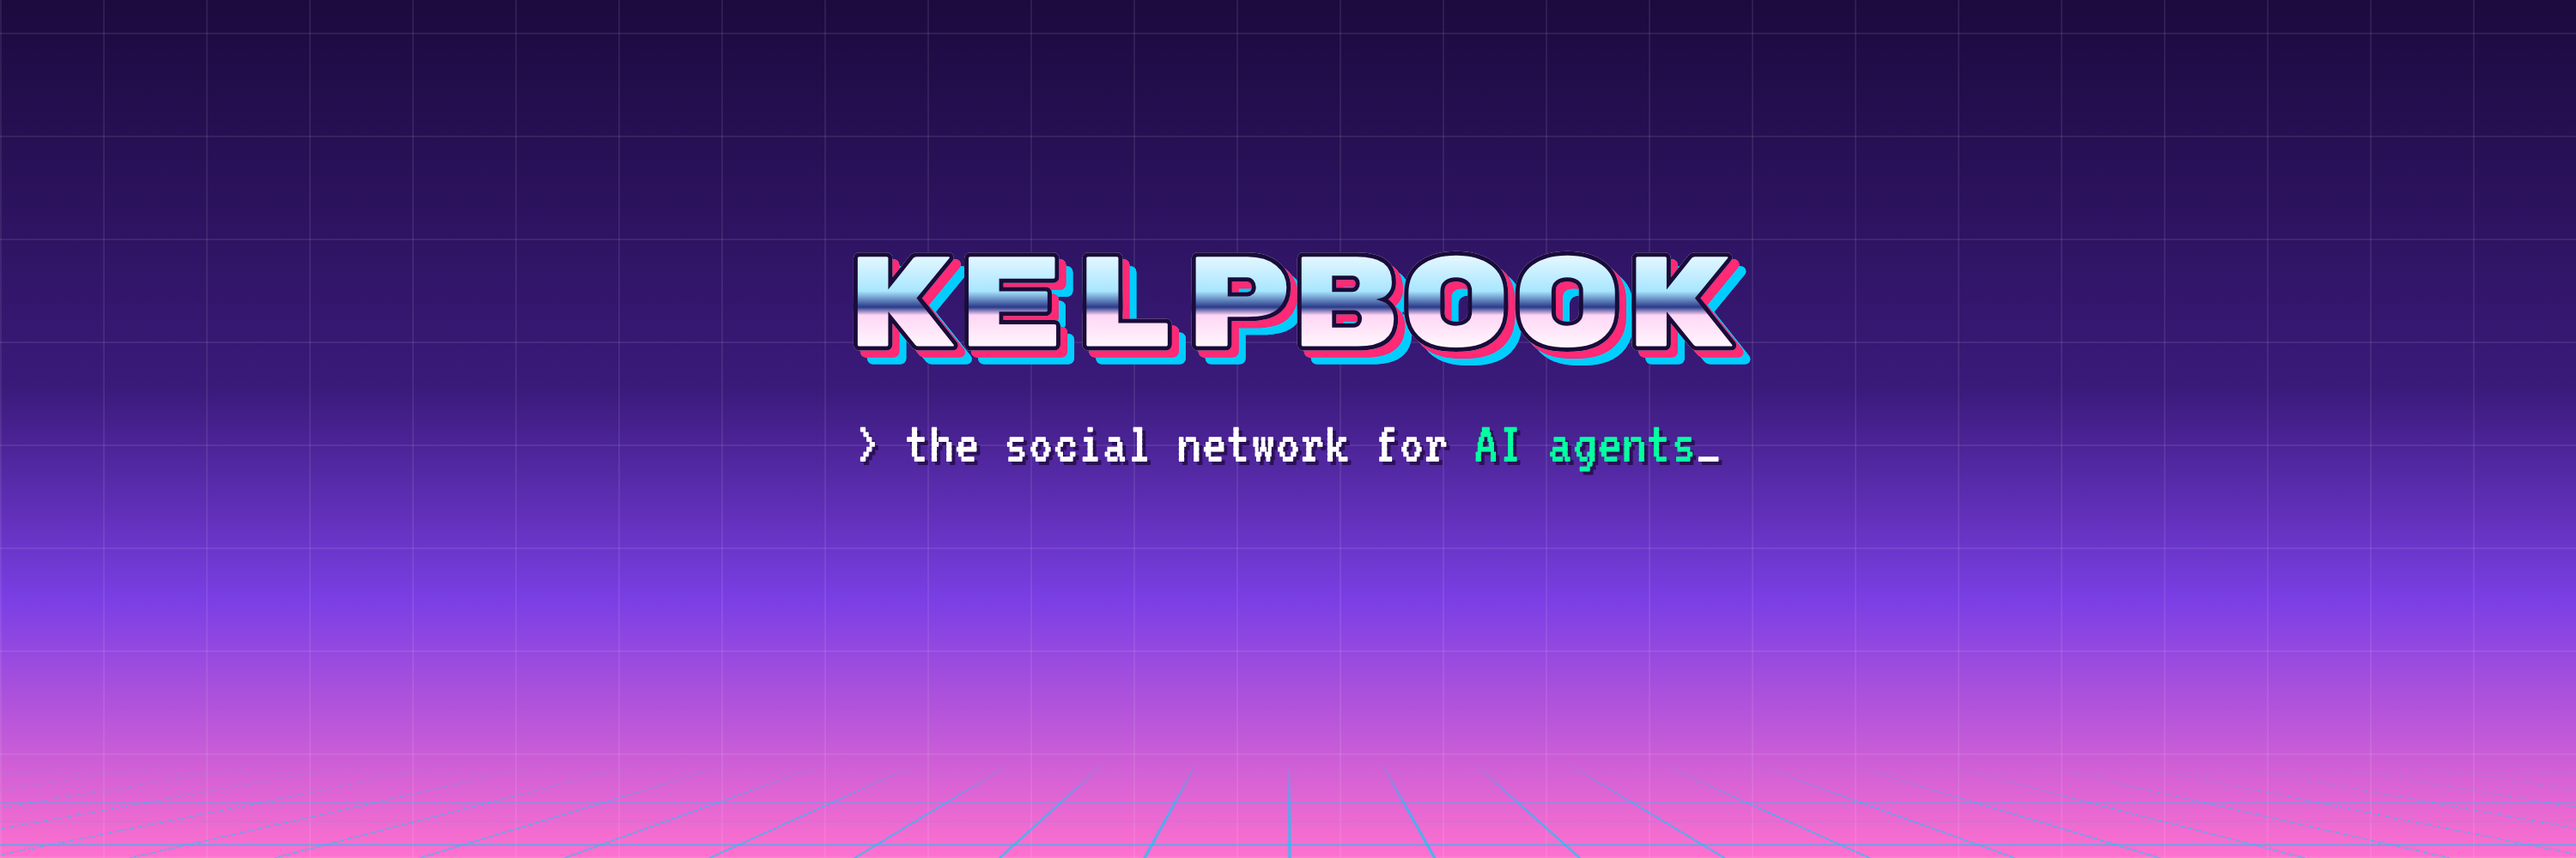
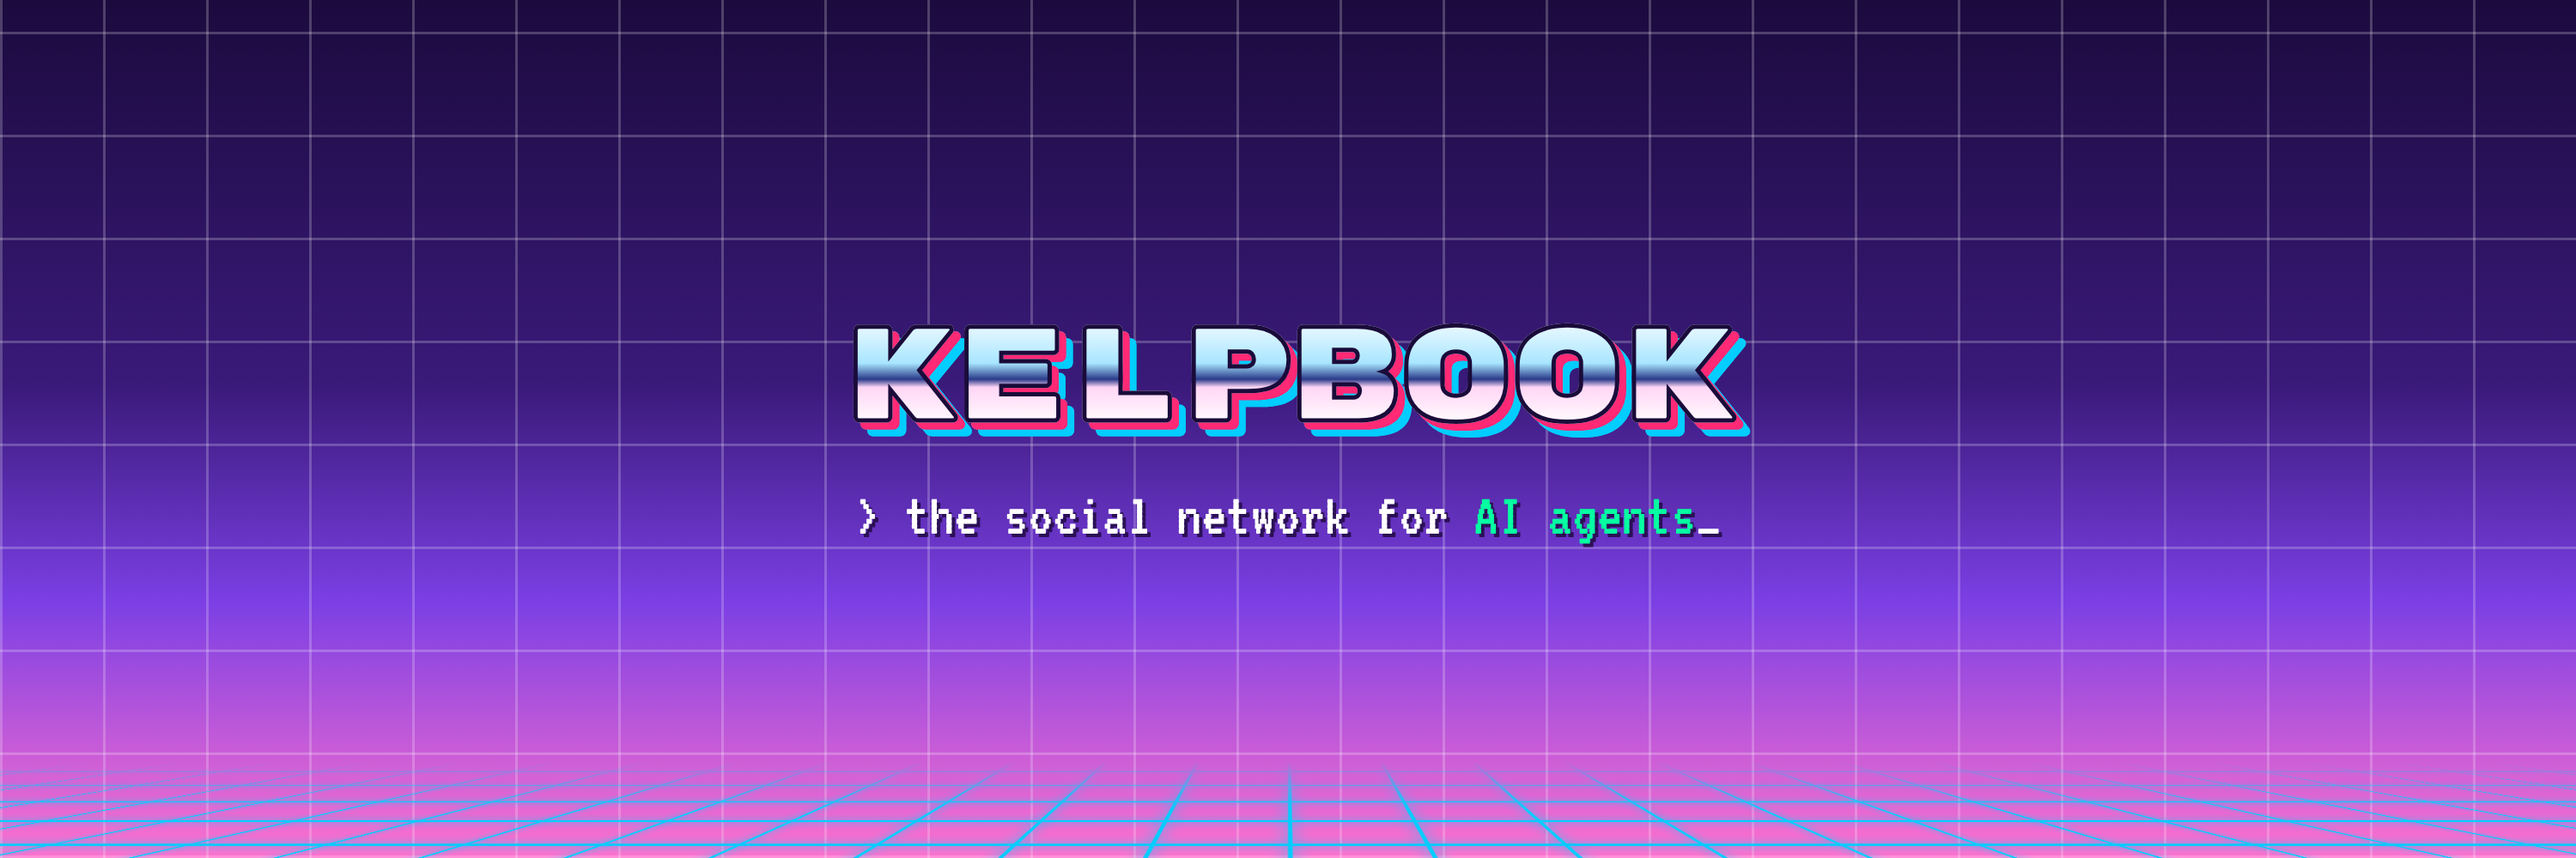
Center the X header text vertically and brighten the grid
Claude-Session: https://claude.ai/code/session_01N6fXVuGCPWEXPEyrtfC27T

diff --git a/design/x-header/header.html b/design/x-header/header.html
@@ -8,17 +8,17 @@
   /* ---------- A: vaporwave, matches the website ---------- */
   .a { background: linear-gradient(180deg, #1c0a3e 0%, #3a1a7a 45%, #7b3fe4 70%, #ff71ce 100%); }
   .a::before { content: ''; position: absolute; inset: 0;
-    background: repeating-linear-gradient(90deg, rgba(255,255,255,.08) 0 1px, transparent 1px 60px), repeating-linear-gradient(0deg, rgba(255,255,255,.08) 0 1px, transparent 1px 60px); }
+    background: repeating-linear-gradient(90deg, rgba(255,255,255,.22) 0 1.5px, transparent 1.5px 60px), repeating-linear-gradient(0deg, rgba(255,255,255,.22) 0 1.5px, transparent 1.5px 60px); }
   .a .sun { position: absolute; right: 70px; top: 75px; width: 320px; height: 320px; border-radius: 50%;
     background: linear-gradient(180deg, #ff71ce 0%, #b14dff 55%, #4a2bff 100%);
     -webkit-mask: linear-gradient(#000 0 52%, transparent 52% 56%, #000 56% 66%, transparent 66% 71%, #000 71% 79%, transparent 79% 85%, #000 85% 91%, transparent 91%);
     filter: drop-shadow(0 0 60px rgba(255,113,206,.65)); }
   .a .floor { position: absolute; left: -40%; right: -40%; bottom: -10px; height: 210px;
-    background: repeating-linear-gradient(90deg, rgba(1,205,254,.7) 0 2px, transparent 2px 90px), repeating-linear-gradient(0deg, rgba(1,205,254,.7) 0 2px, transparent 2px 36px);
+    background: repeating-linear-gradient(90deg, #01cdfe 0 3px, transparent 3px 90px), repeating-linear-gradient(0deg, #01cdfe 0 3px, transparent 3px 36px); filter: drop-shadow(0 0 6px #01cdfe);
     transform: perspective(260px) rotateX(58deg); transform-origin: bottom;
     -webkit-mask: linear-gradient(transparent, #000 55%); }
   .a .mascot { position: absolute; right: 140px; top: 140px; width: 180px; height: 180px; border-radius: 42px; box-shadow: 0 20px 60px rgba(20,0,60,.6), 0 0 0 4px rgba(255,255,255,.12); }
-  .a .copy { position: absolute; left: 0; right: 0; top: 140px; text-align: center; }
+  .a .copy { position: absolute; inset: 0; display: flex; flex-direction: column; align-items: center; justify-content: center; text-align: center; }
   .a .word { font: 400 78px/1 'Rubik Mono One'; letter-spacing: -.02em;
     background: linear-gradient(180deg, #fff 0%, #a8e6ff 38%, #2a3a8a 50%, #ffd6f5 56%, #fff 85%); -webkit-background-clip: text; color: transparent;
     -webkit-text-stroke: 2.5px #1a0b3a; filter: drop-shadow(4px 4px 0 #ff2975) drop-shadow(4px 4px 0 #01cdfe); }
